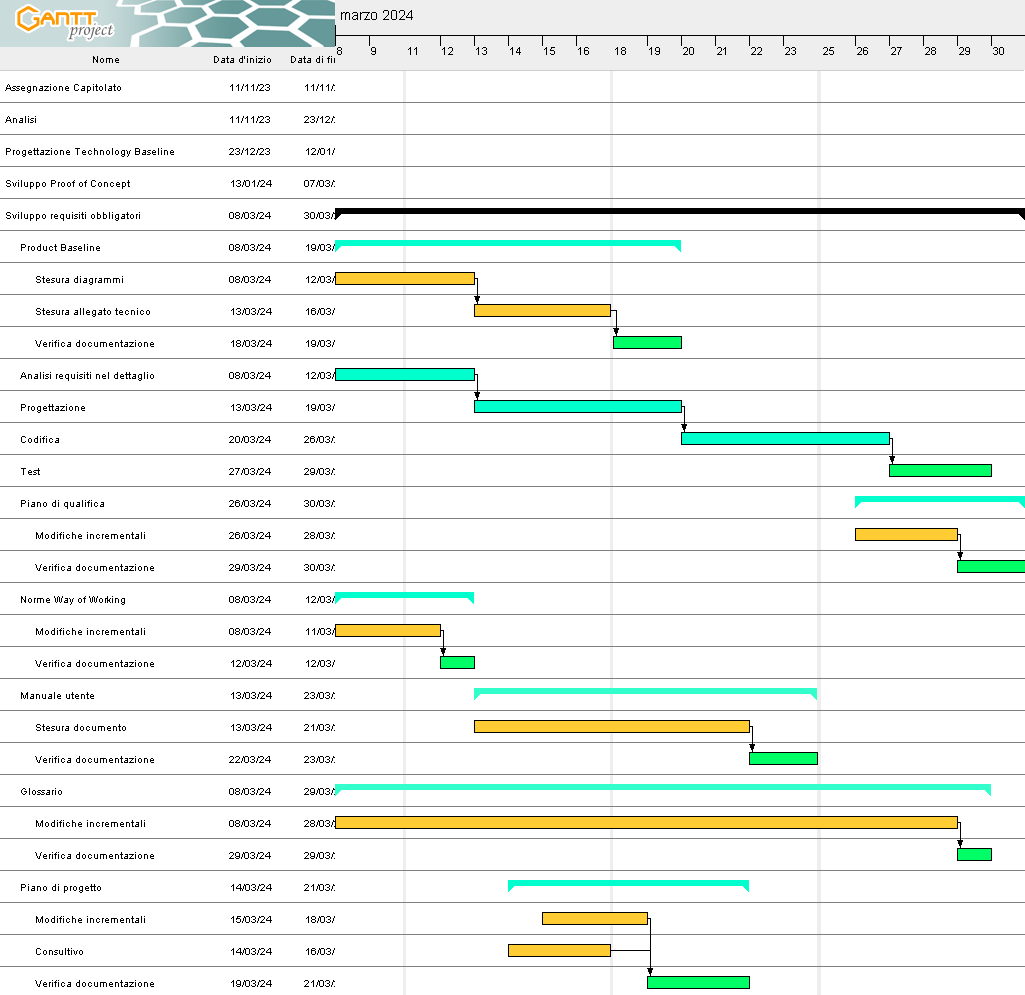
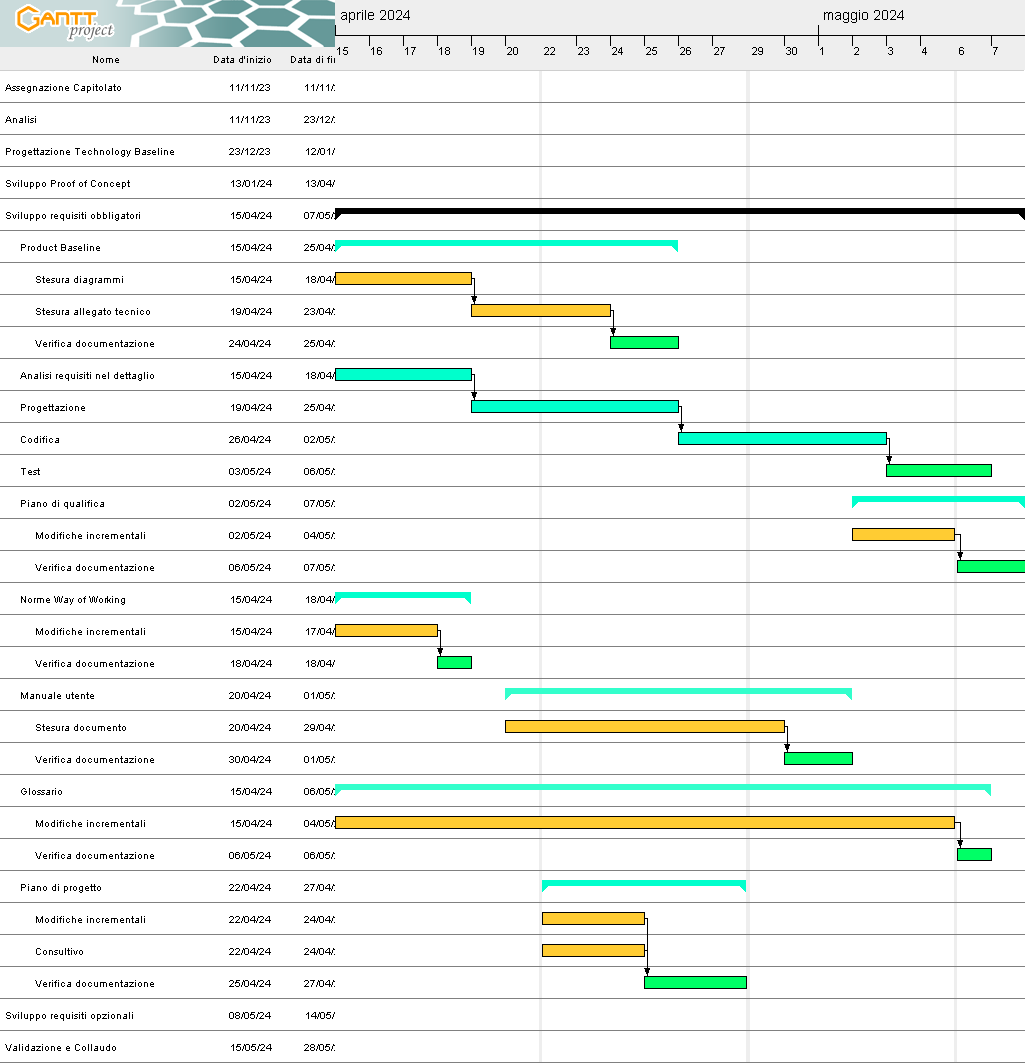
modifiche ai grafici di gantt

Changed region(s): [[0.0, 0.0, 1.0, 1.0]]

diff --git a/documenti/piano_di_progetto.tex b/documenti/piano_di_progetto.tex
@@ -339,7 +339,7 @@ L'analisi del sistema effettuata in questo periodo serve come base tecnologica e
 \end{figure}
 
 \subsubsection{Sviluppo Proof of Concept}
-\custombold{Periodo:} dal 12/01/2024 al 7/03/2024\\
+\custombold{Periodo:} dal 12/01/2024 al 15/14/2024\\
 Questo periodo inizia dopo il periodo di Progettazione per la Technology Baseline e termina con la scadenza di consegna dei documenti per la revisione di Requirements and Technology Baseline (RTB\textsubscript{G}). L'attività principale di questo periodo è la realizzazione di un Proof of Concept\textsubscript{G}.
 \begin{itemize}
     \item \custombold{Proof of Concept:} Il Proof of Concept è una dimostrazione eseguibile che servirà come base di partenza su cui effettuare incrementi nei periodi successivi.
@@ -353,7 +353,7 @@ Questo periodo inizia dopo il periodo di Progettazione per la Technology Baselin
 \end{figure}
 
 \subsubsection{Sviluppo requisiti obbligatori}
-\custombold{Periodo:} dal 7/03/2024 al 30/03/2024\\
+\custombold{Periodo:} dal 15/03/2024 al 8/05/2024\\
 Questo periodo inizia dopo la revisione di Requirements and Technology Baseline (RTB\textsubscript{G}) e termina con l'inizio dello Sviluppo requisiti opzionali. Quindi, il Proof of Concept\textsubscript{G} precedentemente sviluppato sarà utilizzato come base per incrementare il prodotto. Una delle attività di questo periodo è la definizione della Product Baseline\textsubscript{G}.
 \begin{itemize}
     \item \custombold{Product Baseline:} Questa attività illustra la baseline architetturale del prodotto attraverso i diagrammi delle classi, dimostrando la coerenza con quanto mostrato durante l'attività di Technology Baseline.
@@ -370,7 +370,7 @@ Questo periodo inizia dopo la revisione di Requirements and Technology Baseline 
 \end{figure}
 
 \subsubsection{Sviluppo requisiti opzionali}
-\custombold{Periodo:} dal 1/04/2024 al 7/04/2024\\
+\custombold{Periodo:} dal 8/05/2024 al 15/05/2024\\
 Questo periodo inizia dopo lo Sviluppo requisiti obbligatori e termina con l'inizio dello periodo di Verifica e validazione. In preparazione alla revisione di Product Baseline (PB\textsubscript{G}), si procede con lo sviluppo dei requisiti opzionali.
 \begin{itemize}
     \item \custombold{Test:} I Programmatori scrivono i test di unità e integrazione relativi ai componenti sviluppati in questo periodo.
@@ -385,7 +385,7 @@ Questo periodo inizia dopo lo Sviluppo requisiti obbligatori e termina con l'ini
 \end{figure}
 
 \subsubsection{Validazione e collaudo}
-\custombold{Periodo:} dal 7/04/2024 al 28/04/2024\\
+\custombold{Periodo:} dal 15/05/2024 al 28/05/2024\\
 Questo periodo inizia dopo lo Sviluppo requisiti opzionali e termina con la scadenza di consegna dei documenti per la revisione di Customer Acceptance (CA\textsubscript{G}). Il sistema verrà collaudato e ci si assicurerà che il prodotto realizzato sia pienamente conforme alle aspettative.
 \begin{itemize}
     \item \custombold{Test:} Oltre ai test di unità e integrazione, vengono eseguiti test di sistema.
